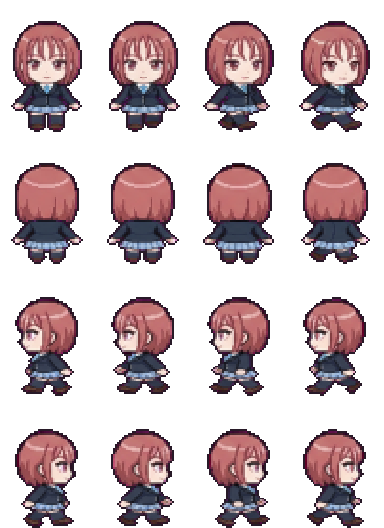
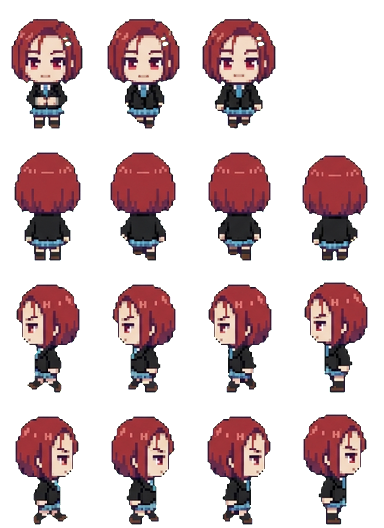
Redraw Miyazawa Yukino in the shared art style
Claude-Session: https://claude.ai/code/session_01KaPsBYLrtbRfMYNG2xeBCK

diff --git a/docs/app.js b/docs/app.js
@@ -75,7 +75,7 @@ function spr(cat, k, col, sc) {
   return `<div class="clip" style="width:${it[2] * sc}px;height:${it[3] * sc}px;POS"><img class="px" src="assets/decor/${cat}.png" alt="" style="width:${S.sw * sc}px;height:${S.sh * sc}px;margin-left:${-col * S.cw * sc}px;margin-top:${-i * S.ch * sc}px"></div>`;
 }
 const icon = (k, sz) => `<span class="itm" style="width:${sz}px;height:${sz}px"><img class="px" src="assets/ui/items.png" alt="" style="width:${IT.length * sz}px;height:${sz}px;margin-left:${-ITM[k].i * sz}px"></span>`;
-const face = (id, w) => { const s = w / 96; return `<img class="px" src="assets/ch/${id}.webp?v=69" alt="" style="position:absolute;width:${384 * s}px;height:${528 * s}px;left:${-(96 * s - w) / 2}px;top:0;max-width:none">`; };
+const face = (id, w) => { const s = w / 96; return `<img class="px" src="assets/ch/${id}.webp?v=70" alt="" style="position:absolute;width:${384 * s}px;height:${528 * s}px;left:${-(96 * s - w) / 2}px;top:0;max-width:none">`; };
 
 // ---------- 저장 ----------
 let fb = null, user = null, S = null, saveT = null;
@@ -143,7 +143,7 @@ function sleepHTML(id, r, dy) {
   const pos = r.a && r.a[0] === 'bed' ? 'left:3%;bottom:20%' : r.b && r.b[0] === 'bed' ? 'right:3%;bottom:20%' : 'left:calc(50% - 44px);bottom:6%';
   const s = 36 / 96;
   return `<div style="position:absolute;width:88px;height:56px;${pos};z-index:${dy ? 4 : 5};${dy ? `transform:translate(12px,${dy}px)` : ''}"><div style="position:absolute;inset:0;filter:brightness(.22)">
-    <div style="position:absolute;left:11px;top:1px;width:36px;height:50px;overflow:hidden;transform:rotate(-90deg)"><img class="px" src="assets/ch/${id}.webp?v=69" alt="" style="width:${384 * s}px;height:${528 * s}px;max-width:none;margin-top:${-132 * s}px"></div>
+    <div style="position:absolute;left:11px;top:1px;width:36px;height:50px;overflow:hidden;transform:rotate(-90deg)"><img class="px" src="assets/ch/${id}.webp?v=70" alt="" style="width:${384 * s}px;height:${528 * s}px;max-width:none;margin-top:${-132 * s}px"></div>
     <div style="position:absolute;left:19px;top:19px;width:67px;height:29px;border:2px solid var(--ink);border-radius:8px 6px 4px 4px;background:#8ccff5;background-image:repeating-linear-gradient(90deg,transparent 0 10px,rgba(255,255,255,.5) 10px 13px)"></div></div>
     ${dy ? '' : '<span class="emo" style="left:8px;top:-22px;color:#5b6bd6">Z z z</span>'}</div>`;
 }
@@ -153,8 +153,8 @@ function roomHTML(id, o, scale) {
     <div class="floor" style="background-color:${PAL[r.fc][1]};background-image:${tileUrl('floor', r.fl)}"></div>
     ${slot('deco', r.dc, 'left:6%;top:6%')}${slot('furn', r.a, 'left:3%;bottom:20%')}${slot('furn', r.b, 'right:3%;bottom:20%')}${slot('prop', r.pr, 'left:28%;bottom:4%;z-index:2')}
     ${id && o.sleeping && g ? sleepHTML(g, r, -16) : ''}${id && o.sleeping ? sleepHTML(id, r) : ''}${id && o.job ? `<div style="position:absolute;left:50%;top:38%;transform:translateX(-50%);z-index:5;background:#fff;border:3px solid var(--ink);border-radius:10px;padding:6px 10px;font-size:11px;text-align:center;line-height:1.5"><img src="assets/ui/ic_job.png" alt="" style="width:18px;vertical-align:-4px"> ${WORK[id] ? WORK[id][1] : esc(JOB_NAME[id]) + ' 알바 중'}${g ? `<br><small>${esc(nameOf(g))}도 같이</small>` : ''}<br><b id="jobleft">${timeLeft(o.job.until)}</b></div>` : ''}
-    ${id ? `<div class="shadow" id="shd" ${o.sleeping || o.job ? 'style="display:none"' : ''}></div><div class="man" id="man" ${o.sleeping || o.job ? 'style="display:none"' : ''}><img class="px" src="assets/ch/${id}.webp?v=69" alt="${esc(nameOf(id))}"></div><span class="emo" id="emo" hidden></span><span class="mumble" id="mum" hidden></span>` : ''}
-    ${g ? `<div class="shadow" id="gshd" ${hideG}></div><div class="man" id="gman" ${hideG}><img class="px" src="assets/ch/${g}.webp?v=69" alt="${esc(nameOf(g))}"></div><span class="emo" id="gemo" hidden></span><span class="mumble gmum" id="gmum" hidden></span>` : ''}
+    ${id ? `<div class="shadow" id="shd" ${o.sleeping || o.job ? 'style="display:none"' : ''}></div><div class="man" id="man" ${o.sleeping || o.job ? 'style="display:none"' : ''}><img class="px" src="assets/ch/${id}.webp?v=70" alt="${esc(nameOf(id))}"></div><span class="emo" id="emo" hidden></span><span class="mumble" id="mum" hidden></span>` : ''}
+    ${g ? `<div class="shadow" id="gshd" ${hideG}></div><div class="man" id="gman" ${hideG}><img class="px" src="assets/ch/${g}.webp?v=70" alt="${esc(nameOf(g))}"></div><span class="emo" id="gemo" hidden></span><span class="mumble gmum" id="gmum" hidden></span>` : ''}
     ${o.sleeping ? `<div class="night"></div><div class="sleepleft">쿨쿨 · 일어나기까지 <b id="sleepleft">${timeLeft(wakeAt(o)).replace(' 남음', '')}</b></div>` : ''}
   </div>`;
 }
@@ -167,7 +167,7 @@ function meterHTML(o) {
 const ic = (act, img, label, pressed) => `<button class="ic" data-act="${act}" ${pressed ? 'aria-pressed="true"' : ''}><img src="assets/ui/ic_${img}.png?v=2" alt="">${label}</button>`;
 
 let dropStyle = null; const cheat = {};
-const APP_V = 142, COUPONS = { NINOGUYA: 3000 };
+const APP_V = 143, COUPONS = { NINOGUYA: 3000 };
 // 쿠폰 입력 정리: 한글 자판 상태로 친 글자(ㅜㅑㅜㅐ혀ㅛㅁ)도 영어 자판 글자로 바꾸고, 대소문자·띄어쓰기·마침표는 무시해요
 const KEY = { ㄱ: 'r', ㄲ: 'R', ㄴ: 's', ㄷ: 'e', ㄸ: 'E', ㄹ: 'f', ㅁ: 'a', ㅂ: 'q', ㅃ: 'Q', ㅅ: 't', ㅆ: 'T', ㅇ: 'd', ㅈ: 'w', ㅉ: 'W', ㅊ: 'c', ㅋ: 'z', ㅌ: 'x', ㅍ: 'v', ㅎ: 'g',
   ㅏ: 'k', ㅐ: 'o', ㅑ: 'i', ㅒ: 'O', ㅓ: 'j', ㅔ: 'p', ㅕ: 'u', ㅖ: 'P', ㅗ: 'h', ㅘ: 'hk', ㅙ: 'ho', ㅚ: 'hl', ㅛ: 'y', ㅜ: 'n', ㅝ: 'nj', ㅞ: 'np', ㅟ: 'nl', ㅠ: 'b', ㅡ: 'm', ㅢ: 'ml', ㅣ: 'l',
@@ -407,7 +407,7 @@ function startTrip(k) {
   if (tg) lines[1] = `${nameOf(tg)}: ${withHim(sub(pick(GLX(tg).trip), o, c.n), tg)}`;
   const n = (FR[id] || [4, 4, 4, 4])[3], el = document.createElement('div'); el.className = 'tripview';
   el.innerHTML = `<div class="tsay"> </div><div class="tstage" style="background-image:url(assets/travel/${k}.png?v=2)"><div class="tplace">${esc(c.n)}</div>
-    <div class="twalker"><img class="px" src="assets/ch/${id}.webp?v=69" alt=""></div>${tg ? `<div class="twalker tgirl"><img class="px" src="assets/ch/${tg}.webp?v=69" alt=""></div>` : ''}<span class="emo tjoy">♪</span></div>
+    <div class="twalker"><img class="px" src="assets/ch/${id}.webp?v=70" alt=""></div>${tg ? `<div class="twalker tgirl"><img class="px" src="assets/ch/${tg}.webp?v=70" alt=""></div>` : ''}<span class="emo tjoy">♪</span></div>
     <div class="tbar"><i></i></div><button class="btn white tskip" data-tskip="1">바로 돌아오기</button>`;
   document.body.appendChild(el);
   const gimg = el.querySelector('.tgirl img'), gn = tg ? (FR[tg] || [4, 4, 4, 4])[3] : 1;
@@ -665,7 +665,7 @@ setInterval(() => { if (S && user) { tickTime(); save(); } }, 60000);
     if (nv > APP_V && !location.search.includes('u=' + nv)) { location.replace(location.pathname + '?u=' + nv); return; }
   } catch { }
   app.innerHTML = '<div class="start"><div class="egg"><div class="scr"></div></div><div class="note">불러오는 중....</div></div>';
-  const [c, t, f, it, mu, ct, tv, gl, sts] = await Promise.all(['data/chars.json', 'data/talk.json', 'data/frames.json', 'data/items.json', 'data/mumble.json', 'data/countries.json', 'data/travel.json', 'data/girls.json', 'data/sets.json'].map(u => fetch(u + '?v=142').then(r => r.ok ? r.json() : {})));
+  const [c, t, f, it, mu, ct, tv, gl, sts] = await Promise.all(['data/chars.json', 'data/talk.json', 'data/frames.json', 'data/items.json', 'data/mumble.json', 'data/countries.json', 'data/travel.json', 'data/girls.json', 'data/sets.json'].map(u => fetch(u + '?v=143').then(r => r.ok ? r.json() : {})));
   CH = c; CHM = Object.fromEntries(c.map(x => [x.id, x])); TALK = t; FR = f; IT = it; ITM = Object.fromEntries(it.map(x => [x.k, x])); MUM = mu; CTRY = ct; TRV = tv; GL = Array.isArray(gl) ? gl : []; SETS = Array.isArray(sts) ? sts : []; GLM = Object.fromEntries(GL.map(x => [x.id, x]));
   try { await initFirebase(); } catch (e) { console.warn('Firebase 연결 실패, 기기 저장으로', e); fb = null; }
   if (fb) {

diff --git a/docs/index.html b/docs/index.html
@@ -18,6 +18,6 @@
 <main id="app" aria-live="polite"></main>
 <div id="toast" role="status" hidden></div>
 <script src="firebase-config.js?v=3"></script>
-<script type="module" src="app.js?v=142"></script>
+<script type="module" src="app.js?v=143"></script>
 </body>
 </html>
